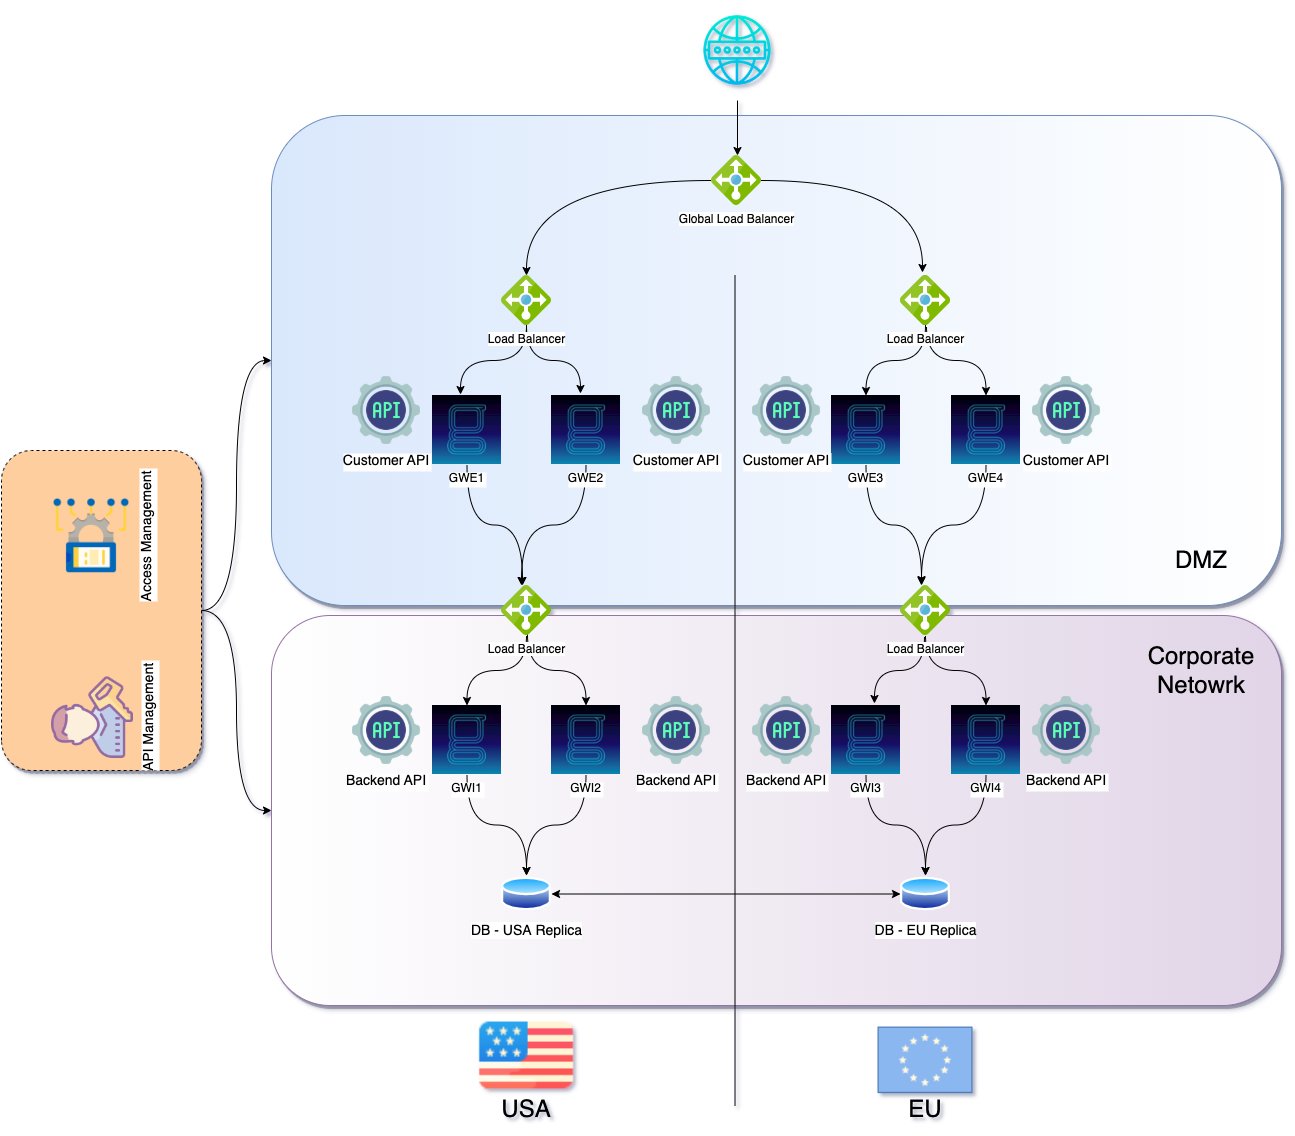
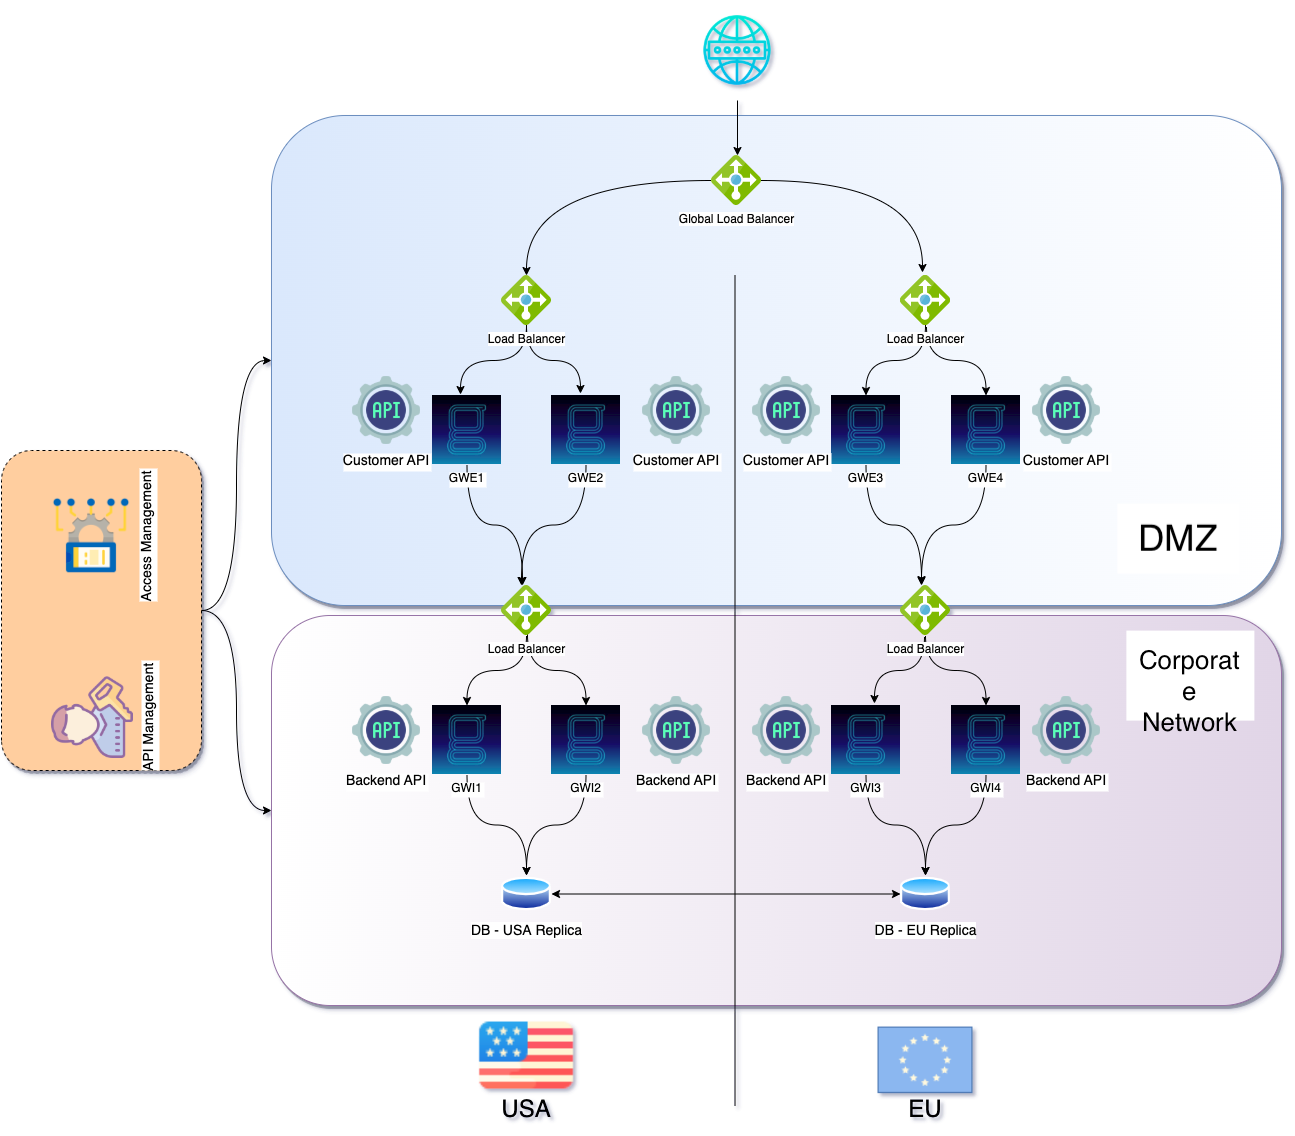
gitbook[cr-68]: No subject

Changed region(s): [[0.8649, 0.5546, 0.9884, 0.647], [0.8649, 0.4621, 0.9575, 0.493]]

diff --git a/docs/apim/4.3/guides/api-configuration/v2-api-configuration/README.md b/docs/apim/4.3/guides/api-configuration/v2-api-configuration/README.md
@@ -149,8 +149,8 @@ While beneficial for certain use cases, there are also risks to CORS. One risk i
 
 The sharding tags mechanism allows you to specify which “shard” of of your Gravitee API Gateway an API should be deployed too. This feature is useful when you have many API Gateways dedicated to different networks, audiences, programs, and so forth. To explain this further, let’s dive into an example scenario.\
 \
-In the diagram below we have an example of a typical deployment an organization may use for their API Management. This scenario looks to deploy two APIs in a distributed manner, providing high availability across different regions and in different network environments.
+In the diagram below we have an example of a typical deployment an organization may use for their API Management. This scenario looks to deploy two APIs in a distributed manner, providing high availability across different regions and in different network environments.&#x20;
 
-<figure><img src="../../../.gitbook/assets/Example architecture.png" alt=""><figcaption><p>Example architecture diagram to illustrate value of sharding tags.</p></figcaption></figure>
+<figure><img src="../../../.gitbook/assets/Example architecture (1).png" alt=""><figcaption><p>Example architecture diagram to illustrate value of sharding tags.</p></figcaption></figure>
 
 If using sharding tags, you could tag these Gateways with specific keywords. Once the Gateways are tagged, you can [select that tag in an APIs Deployments proxy settings](general-proxy-settings.md#configure-deployments). Whatever tag you select for that API will end up being the Gateway where that API is deployed.

diff --git a/docs/apim/4.3/getting-started/configuration/apim-gateway/sharding-tags.md b/docs/apim/4.3/getting-started/configuration/apim-gateway/sharding-tags.md
@@ -34,7 +34,7 @@ API deployment is impacted by how tags are applied to APIs and Gateways.
 
 Our discussion of sharding tag configuration assumes an architecture that includes both DMZ Gateways and internal, corporate Gateways. We want to tag these Gateways as external-only and internal-only, respectively, per the diagram below:
 
-<figure><img src="../../../.gitbook/assets/Example architecture (1).png" alt=""><figcaption></figcaption></figure>
+<figure><img src="../../../.gitbook/assets/Example architecture (1) (1).png" alt=""><figcaption></figcaption></figure>
 
 Before sharding tags can be defined in the Gravitee API Management Console, the API Gateway `gravitee.yaml` file must be modified to assign a Gravitee API Gateway to a specific sharding tag:
 
